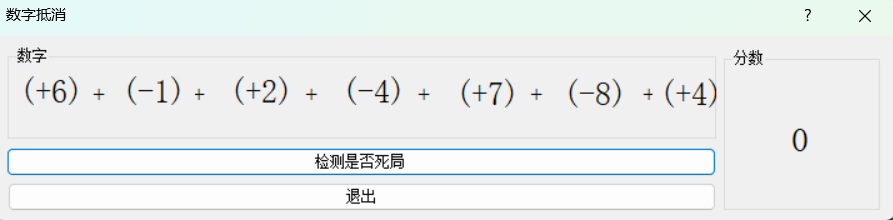
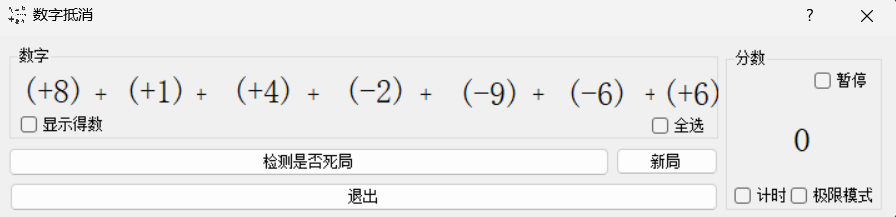
Update README.md

diff --git a/README.md b/README.md
@@ -6,7 +6,7 @@
 
 打开软件后可以看到左上方的横式，右上方的分数，下方有两个按钮  
 ![image](md-pic/1.png)  
-选择一些加起来等于0的数字（单独一个0也可以，或者-3，-2，+5这三个数也可以，不限次数）  
+选择一些加起来等于0的数字（单独一个0也可以，或者-3，-2，+5这三个数也可以，不限项数）  
 ![image](md-pic/2.png)  
 选择好后，下方的*检测是否死局*按钮会变成*抵消*  
 如果所有选择的数相加等于0，按下*抵消*按钮即可得1分，如果选错了会**结束游戏**  
@@ -14,5 +14,9 @@
 
 ***玩法就这么简单，但你别看它一开始特别简单，如果你对数字不敏感，到后面你就会发现它特别难...***  
 
-***作者的最高分（未作弊）：** 13*  
+为了提高难度，本软件还具备了**计时**和**极限模式**，为了帮助某些宝宝，具备了**显示得数**
+
+~~*右键极限模式的选择框可以看到究极极限模式的菜单*~~
+
+**作者的最高分（未作弊）：** *13*
 ~~其实左上角的问号里有提示，但是真的不建议使用（毕竟这么简单的游戏还要用帮助...）~~
